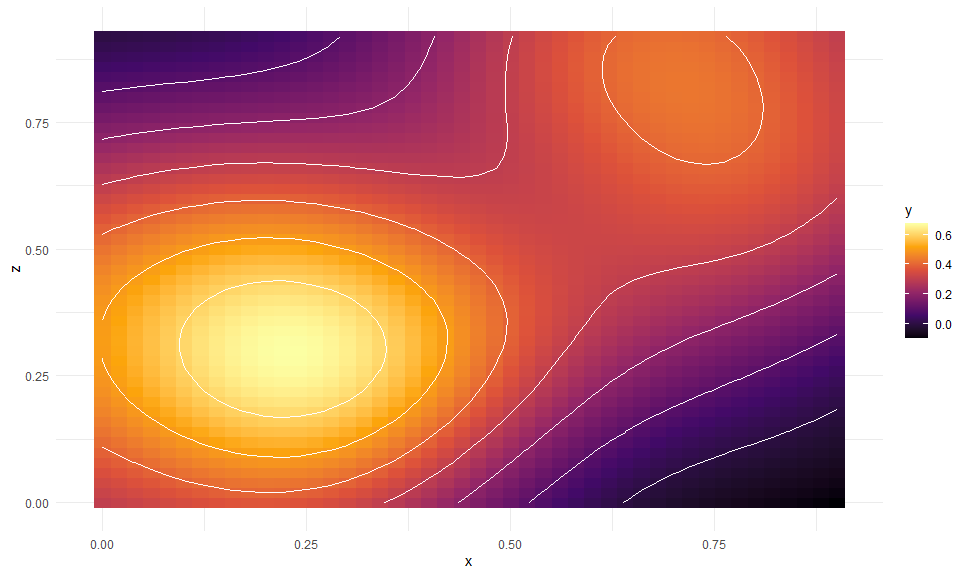
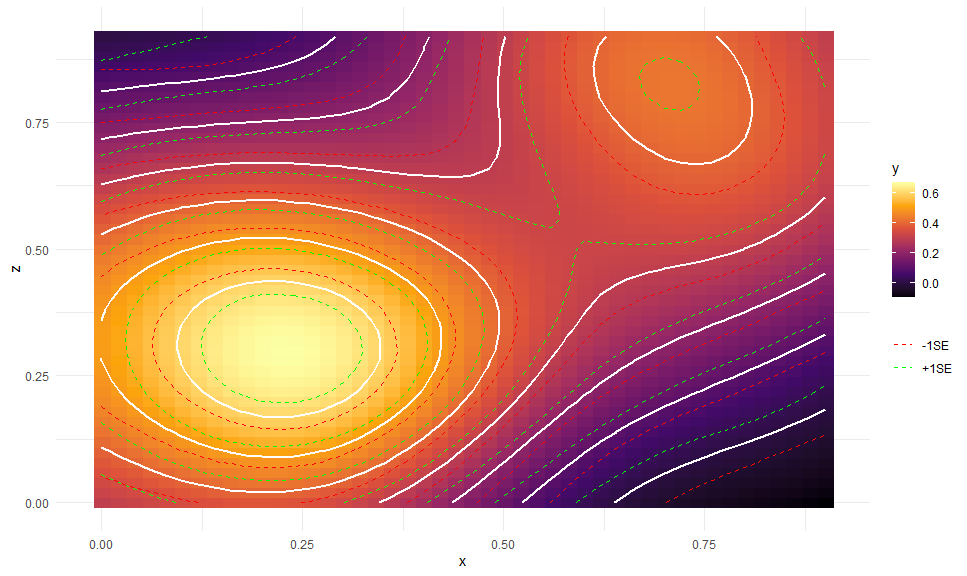
raster +-SE

diff --git a/README.md b/README.md
@@ -247,12 +247,19 @@ gge <- ggpredict(b5, c("x [n=45]", "z [n=45]"))
 autoplot(gge, aes(x = x, y = z, 
                   color = NULL, group = NULL, # need to override
                   fill = predicted)) +
-  # Expected values
+  # Expected values + CI
   geom_raster() +
-  geom_contour(aes(z = predicted),
-               color = "white") +
+  geom_contour(aes(z = predicted), color = "white", size = 1, 
+               breaks = seq(0, 0.6, by = 0.1)) +
+  geom_contour(aes(z = predicted - std.error, color = "+1SE"),
+               linetype = "dashed", 
+               breaks = seq(0, 0.6, by = 0.1)) +
+  geom_contour(aes(z = predicted + std.error, color = "-1SE"),
+               linetype = "dashed", 
+               breaks = seq(0, 0.6, by = 0.1)) +
   # Scales and theme
   scale_fill_viridis_c("y", option = "B") +
+  scale_color_manual(NULL, values = c("red", "green")) + 
   theme_minimal()
 ```
 
